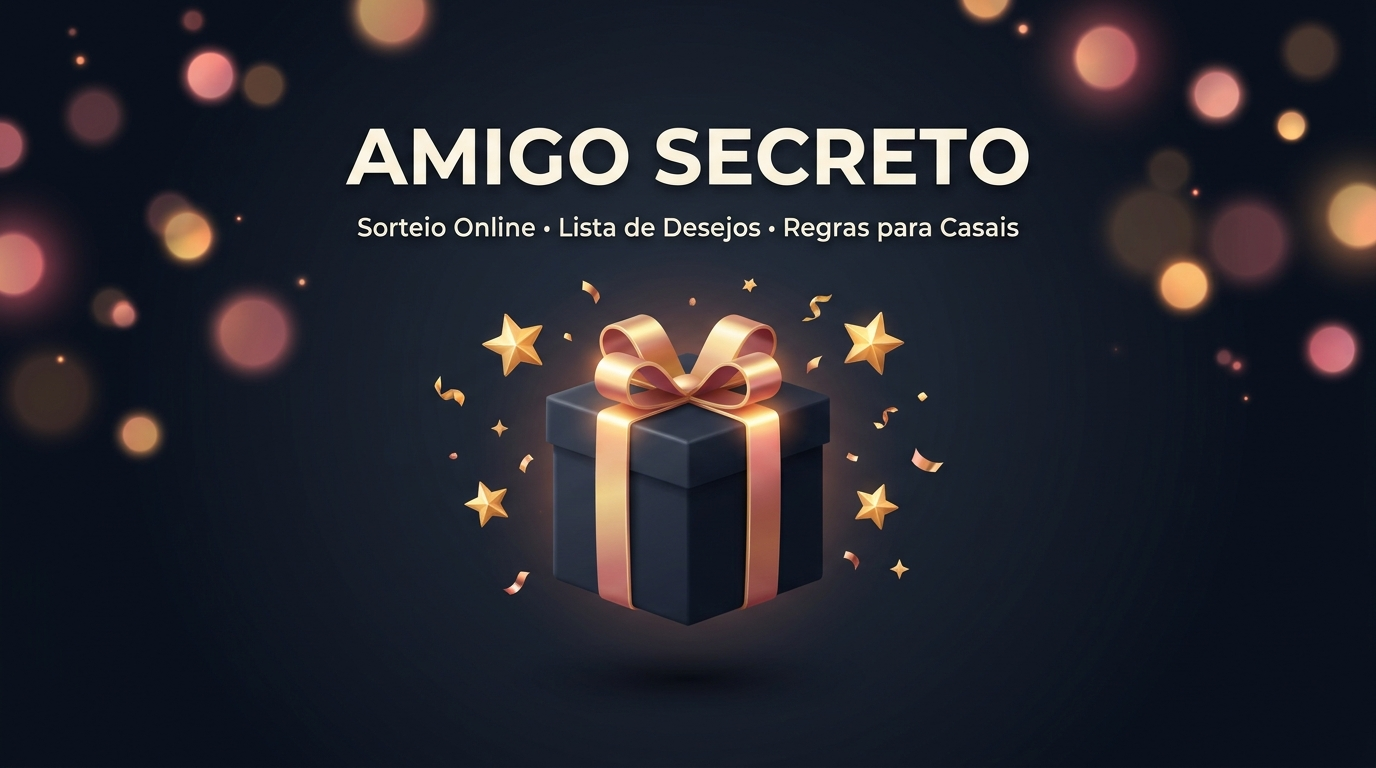
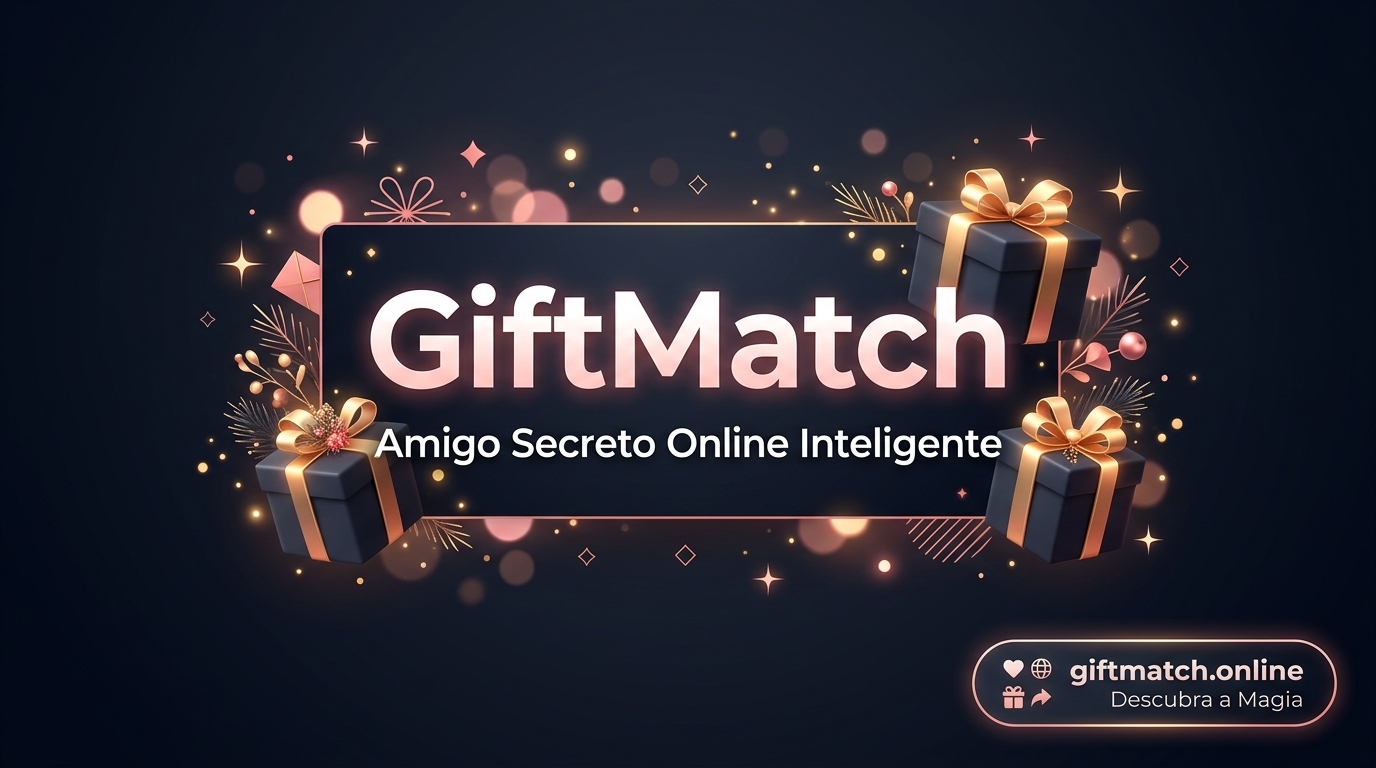
feat(branding): update application branding and domain to GiftMatch

diff --git a/resources/js/Pages/Secret/Show.vue b/resources/js/Pages/Secret/Show.vue
@@ -186,7 +186,7 @@ async function requestBrowserNotifications() {
             localStorage.setItem('notif_granted_' + props.participant.token, '1');
             showToast('🔔 Notificações ativadas com sucesso!');
             
-            new Notification('Amigo Secreto 🎁', {
+            new Notification('GiftMatch 🎁', {
                 body: `Notificações ativadas para "${props.event.title}". Lembrete ativado com sucesso!`,
                 icon: '/favicon.ico',
             });
@@ -245,11 +245,11 @@ function downloadCalendarIcs() {
     const icsContent = [
         'BEGIN:VCALENDAR',
         'VERSION:2.0',
-        'PRODID:-//Amigo Secreto//PT',
+        'PRODID:-//GiftMatch//PT',
         'CALSCALE:GREGORIAN',
         'METHOD:PUBLISH',
         'BEGIN:VEVENT',
-        `UID:${props.participant.token}@amigosecreto`,
+        `UID:${props.participant.token}@giftmatch.online`,
         `DTSTAMP:${new Date().toISOString().replace(/[-:]/g, '').split('.')[0]}Z`,
         `DTSTART:${startDate}`,
         `DTEND:${endDate}`,
@@ -351,7 +351,7 @@ function downloadCardImage() {
     ctx.font = 'bold 16px sans-serif';
     ctx.fillStyle = '#fecdd3';
     ctx.textAlign = 'center';
-    ctx.fillText('AMIGO SECRETO', 450, 88);
+    ctx.fillText('GIFTMATCH', 450, 88);
     ctx.restore();
 
     // Event Title
@@ -502,7 +502,7 @@ function downloadCardImage() {
     ctx.font = '13px sans-serif';
     ctx.fillStyle = '#94a3b8';
     ctx.fillText('Você pode voltar a esta página a qualquer momento para ver detalhes.', 450, 915);
-    ctx.fillText('Organizado com carinho pelo Amigo Secreto Online 🎄', 450, 945);
+    ctx.fillText('Organizado com carinho pelo GiftMatch 🎄', 450, 945);
     ctx.restore();
 
     // Footer copyright
@@ -510,7 +510,7 @@ function downloadCardImage() {
     ctx.font = '13px sans-serif';
     ctx.fillStyle = '#64748b';
     ctx.textAlign = 'center';
-    ctx.fillText('Gerado automaticamente • Amigo Secreto', 450, 1030);
+    ctx.fillText('Gerado automaticamente • GiftMatch (giftmatch.online)', 450, 1030);
     ctx.restore();
 
     // Download trigger
@@ -518,7 +518,7 @@ function downloadCardImage() {
     const a = document.createElement('a');
     a.href = dataUrl;
     const safeName = (props.participant.name || 'amigo').toLowerCase().replace(/[^a-z0-9]/g, '-');
-    a.download = `amigo-secreto-${safeName}.png`;
+    a.download = `giftmatch-${safeName}.png`;
     document.body.appendChild(a);
     a.click();
     document.body.removeChild(a);
@@ -554,7 +554,7 @@ onMounted(() => {
 </script>
 
 <template>
-    <Head :title="'Amigo Secreto de ' + participant.name" />
+    <Head :title="'GiftMatch 🎁 - ' + participant.name" />
 
     <div class="min-h-screen bg-slate-950 text-slate-100 relative overflow-hidden font-sans py-12 px-4 sm:px-6">
         <ToastNotification />

diff --git a/resources/js/Pages/Welcome.vue b/resources/js/Pages/Welcome.vue
@@ -39,16 +39,16 @@ function goToInvite() {
 
 <template>
     <Head>
-        <title>Amigo Secreto Online 🎁 - Sorteio Grátis com Regras e Desejos</title>
-        <meta name="description" content="Organize seu Amigo Secreto de forma simples, rápida e gratuita! Sorteio automático sem ninguém tirar a si mesmo, regras para casais, lista de desejos e envio direto no WhatsApp." />
+        <title>GiftMatch 🎁 - Amigo Secreto Online Inteligente</title>
+        <meta name="description" content="Organize seu Amigo Secreto no GiftMatch de forma simples, rápida e 100% gratuita! Sorteio automático sem ninguém tirar a si mesmo, regras para casais, lista de desejos e envio direto no WhatsApp." />
         <meta property="og:type" content="website" />
-        <meta property="og:site_name" content="Amigo Secreto Online" />
-        <meta property="og:title" content="Amigo Secreto Online 🎁 - Sorteio Grátis com Regras e Desejos" />
-        <meta property="og:description" content="Organize seu Amigo Secreto de forma simples, rápida e gratuita! Sorteio automático com regras para casais, lista de desejos e envio direto no WhatsApp." />
+        <meta property="og:site_name" content="GiftMatch" />
+        <meta property="og:title" content="GiftMatch 🎁 - Amigo Secreto Online Inteligente" />
+        <meta property="og:description" content="Organize seu Amigo Secreto no GiftMatch de forma simples, rápida e 100% gratuita! Sorteio automático com regras para casais, lista de desejos e envio direto no WhatsApp." />
         <meta property="og:image" content="/og-home.jpg" />
         <meta name="twitter:card" content="summary_large_image" />
-        <meta name="twitter:title" content="Amigo Secreto Online 🎁 - Sorteio Grátis com Regras e Desejos" />
-        <meta name="twitter:description" content="Organize seu Amigo Secreto de forma simples, rápida e gratuita! Sorteio automático com regras para casais, lista de desejos e envio direto no WhatsApp." />
+        <meta name="twitter:title" content="GiftMatch 🎁 - Amigo Secreto Online Inteligente" />
+        <meta name="twitter:description" content="Organize seu Amigo Secreto no GiftMatch de forma simples, rápida e 100% gratuita! Sorteio automático com regras para casais, lista de desejos e envio direto no WhatsApp." />
         <meta name="twitter:image" content="/og-home.jpg" />
     </Head>
 
@@ -286,7 +286,7 @@ function goToInvite() {
                     <ApplicationLogo />
                 </div>
                 <div>
-                    Amigo Secreto Online &bull; Organize sem complicações
+                    GiftMatch &bull; Amigo Secreto Online sem complicações
                 </div>
             </div>
         </footer>

diff --git a/resources/js/Pages/Invite/Show.vue b/resources/js/Pages/Invite/Show.vue
@@ -41,16 +41,16 @@ function submit() {
 
 <template>
     <Head>
-        <title>{{ 'Convite: ' + event.title + ' 🎁 - Amigo Secreto' }}</title>
-        <meta name="description" :content="'Você foi convidado(a) por ' + (event.organizer_name || 'um amigo') + ' para o Amigo Secreto &quot;' + event.title + '&quot;! Confirme sua participação, escolha seus presentes e participe do sorteio.'" />
+        <title>{{ 'Convite: ' + event.title + ' 🎁 - GiftMatch' }}</title>
+        <meta name="description" :content="'Você foi convidado(a) por ' + (event.organizer_name || 'um amigo') + ' para o Amigo Secreto &quot;' + event.title + '&quot; no GiftMatch! Confirme sua participação, escolha seus presentes e participe do sorteio.'" />
         <meta property="og:type" content="website" />
-        <meta property="og:site_name" content="Amigo Secreto Online" />
-        <meta property="og:title" :content="'Convite para o Amigo Secreto: ' + event.title + ' 🎁'" />
-        <meta property="og:description" :content="'Você foi convidado(a) por ' + (event.organizer_name || 'um amigo') + ' para o Amigo Secreto &quot;' + event.title + '&quot;! Clique aqui para confirmar sua presença, indicar seus presentes e participar do sorteio.'" />
+        <meta property="og:site_name" content="GiftMatch" />
+        <meta property="og:title" :content="'Convite para o Amigo Secreto: ' + event.title + ' 🎁 - GiftMatch'" />
+        <meta property="og:description" :content="'Você foi convidado(a) por ' + (event.organizer_name || 'um amigo') + ' para o Amigo Secreto &quot;' + event.title + '&quot; no GiftMatch! Clique aqui para confirmar sua presença, indicar seus presentes e participar do sorteio.'" />
         <meta property="og:image" content="/og-invite.jpg" />
         <meta name="twitter:card" content="summary_large_image" />
-        <meta name="twitter:title" :content="'Convite para o Amigo Secreto: ' + event.title + ' 🎁'" />
-        <meta name="twitter:description" :content="'Você foi convidado(a) por ' + (event.organizer_name || 'um amigo') + ' para o Amigo Secreto &quot;' + event.title + '&quot;! Confirme sua presença e adicione seus presentes.'" />
+        <meta name="twitter:title" :content="'Convite para o Amigo Secreto: ' + event.title + ' 🎁 - GiftMatch'" />
+        <meta name="twitter:description" :content="'Você foi convidado(a) por ' + (event.organizer_name || 'um amigo') + ' para o Amigo Secreto &quot;' + event.title + '&quot; no GiftMatch! Confirme sua presença e adicione seus presentes.'" />
         <meta name="twitter:image" content="/og-invite.jpg" />
     </Head>
 

diff --git a/resources/js/Pages/Events/Show.vue b/resources/js/Pages/Events/Show.vue
@@ -120,7 +120,7 @@ function copyMagicLink(p) {
 // Shared invite payload
 const invitePayload = computed(() => {
     const text = `🎁 *Convite para o Amigo Secreto: ${props.event.title}*!\n\n` +
-        `Olá! Estou organizando nosso amigo secreto no Amigo Secreto.\n` +
+        `Olá! Estou organizando nosso amigo secreto no GiftMatch.\n` +
         (props.event.budget_limit ? `💰 *Valor sugerido:* ${formatCurrency(props.event.budget_limit)}\n` : '') +
         (props.event.event_date ? `📅 *Data da confraternização:* ${formatDate(props.event.event_date)}\n` : '') +
         (props.event.location ? `📍 *Local:* ${props.event.location}\n` : '') +

diff --git a/resources/js/Components/ApplicationLogo.vue b/resources/js/Components/ApplicationLogo.vue
@@ -12,8 +12,8 @@
                 </svg>
             </div>
         </div>
-        <span class="font-display font-extrabold text-xl tracking-tight bg-gradient-to-r from-rose-600 via-rose-500 to-amber-500 bg-clip-text text-transparent">
-            Amigo<span class="text-slate-800 dark:text-white">Secreto</span>
+        <span class="font-display font-extrabold text-xl tracking-tight bg-gradient-to-r from-rose-500 via-rose-400 to-amber-400 bg-clip-text text-transparent">
+            Gift<span class="text-slate-900 dark:text-white">Match</span>
         </span>
     </div>
 </template>

diff --git a/resources/js/app.js b/resources/js/app.js
@@ -6,10 +6,10 @@ import { resolvePageComponent } from 'laravel-vite-plugin/inertia-helpers';
 import { createApp, h } from 'vue';
 import { ZiggyVue } from '../../vendor/tightenco/ziggy';
 
-const appName = import.meta.env.VITE_APP_NAME || 'Laravel';
+const appName = import.meta.env.VITE_APP_NAME || 'GiftMatch';
 
 createInertiaApp({
-    title: (title) => `${title} - ${appName}`,
+    title: (title) => (title ? (title.includes(appName) ? title : `${title} - ${appName}`) : appName),
     resolve: (name) =>
         resolvePageComponent(
             `./Pages/${name}.vue`,

diff --git a/resources/views/app.blade.php b/resources/views/app.blade.php
@@ -9,18 +9,19 @@
             $props = $page['props'] ?? [];
             $event = $props['event'] ?? null;
 
-            // Ensure HTTPS when in production or on shardweb.app
+            // Ensure HTTPS when in production, on shardweb.app, or on giftmatch.online
             $isSecure = request()->isSecure()
                 || request()->header('x-forwarded-proto') === 'https'
                 || str_contains(request()->getHost(), 'shardweb.app')
+                || str_contains(request()->getHost(), 'giftmatch.online')
                 || app()->environment('production');
 
             $currentUrl = url(request()->getRequestUri(), [], $isSecure);
 
             if ($component === 'Invite/Show' && !empty($event['title'])) {
-                $metaTitle = "Convite: {$event['title']} 🎁 - Amigo Secreto";
+                $metaTitle = "Convite: {$event['title']} 🎁 - GiftMatch";
                 $organizer = $event['organizer_name'] ?? 'o organizador';
-                $descParts = ["Você foi convidado(a) por {$organizer} para o Amigo Secreto \"{$event['title']}\"!"];
+                $descParts = ["Você foi convidado(a) por {$organizer} para o Amigo Secreto \"{$event['title']}\" no GiftMatch!"];
                 if (!empty($event['event_date'])) {
                     $descParts[] = "Confraternização: {$event['event_date']}.";
                 }
@@ -31,12 +32,12 @@
                 $metaDesc = implode(' ', $descParts);
                 $metaImage = url('og-invite.jpg', [], $isSecure);
             } elseif ($component === 'Secret/Show') {
-                $metaTitle = "Meu Amigo Secreto 🎁 - Link Exclusivo";
-                $metaDesc = "Descubra quem você tirou no Amigo Secreto, confira a lista de desejos e prepare o seu presente!";
+                $metaTitle = "Meu Amigo Secreto 🎁 - GiftMatch";
+                $metaDesc = "Descubra quem você tirou no Amigo Secreto no GiftMatch, confira a lista de desejos e prepare o seu presente!";
                 $metaImage = url('og-home.jpg', [], $isSecure);
             } else {
-                $metaTitle = "Amigo Secreto Online 🎁 - Sorteio Grátis com Regras e Desejos";
-                $metaDesc = "Organize seu Amigo Secreto de forma simples, rápida e gratuita! Sorteio automático sem ninguém tirar a si mesmo, regras para casais, lista de desejos e envio direto no WhatsApp.";
+                $metaTitle = "GiftMatch 🎁 - Amigo Secreto Online Inteligente e Grátis";
+                $metaDesc = "Organize seu Amigo Secreto no GiftMatch de forma simples, rápida e gratuita! Sorteio automático sem ninguém tirar a si mesmo, regras para casais, lista de desejos e envio direto no WhatsApp.";
                 $metaImage = url('og-home.jpg', [], $isSecure);
             }
         @endphp
@@ -47,7 +48,7 @@
 
         <!-- Open Graph / Facebook / WhatsApp -->
         <meta property="og:type" content="website">
-        <meta property="og:site_name" content="Amigo Secreto Online">
+        <meta property="og:site_name" content="GiftMatch">
         <meta property="og:title" content="{{ $metaTitle }}">
         <meta property="og:description" content="{{ $metaDesc }}">
         <meta property="og:url" content="{{ $currentUrl }}">

diff --git a/config/app.php b/config/app.php
@@ -13,7 +13,7 @@ return [
     |
     */
 
-    'name' => env('APP_NAME', 'Laravel'),
+    'name' => env('APP_NAME', 'GiftMatch'),
 
     /*
     |--------------------------------------------------------------------------
